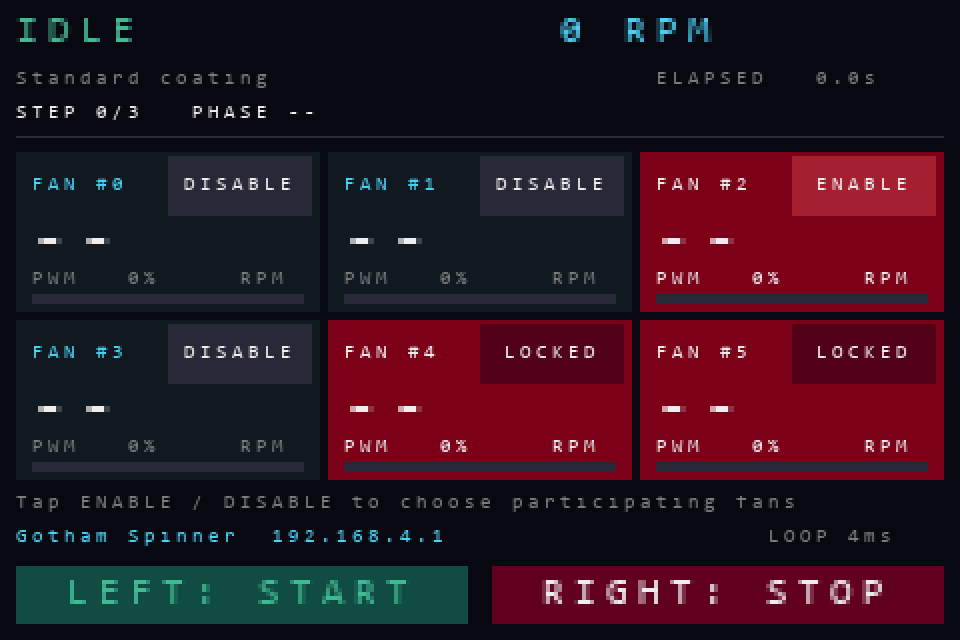
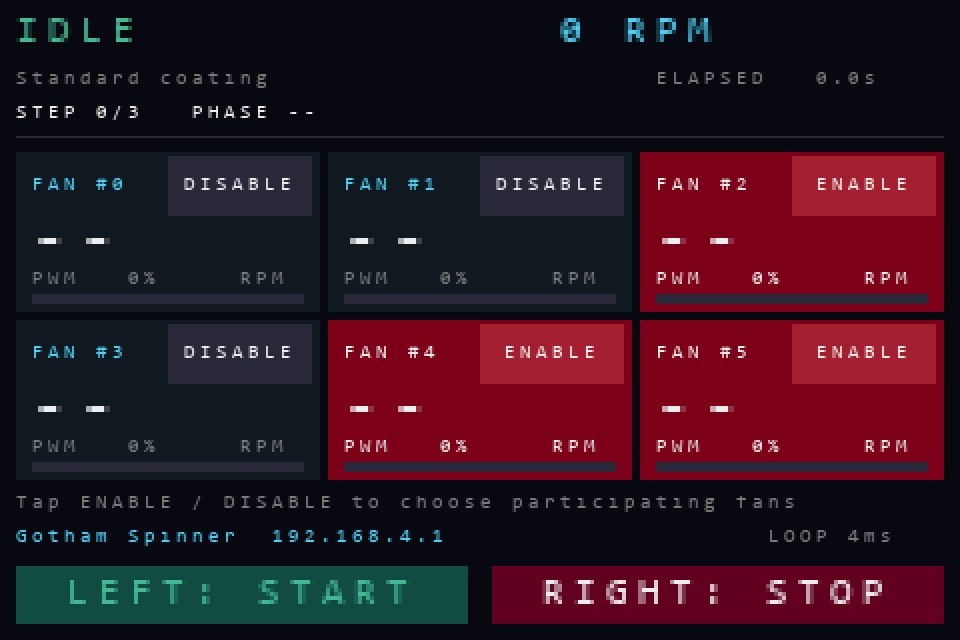
Unlock fans four and five after GPIO isolation

Changed region(s): [[0.8125, 0.5, 1.0, 0.625], [0.5, 0.5, 0.6562, 0.625]]

diff --git a/tests/test_rig.py b/tests/test_rig.py
@@ -59,9 +59,9 @@ class RigTests(unittest.TestCase):
             self.module.FanRig()
         self.assertEqual(self.attempted, [])
 
-    def test_shipped_configuration_constructs_four_unmodified_kit_channels(self):
+    def test_shipped_configuration_unlocks_auxiliary_channels_without_selecting_them(self):
         self.assertEqual(self.config.ENABLED_CHANNELS, (0, 1, 2, 3))
-        self.assertFalse(self.config.AUX_LINKS_DISCONNECTED)
+        self.assertTrue(self.config.AUX_LINKS_DISCONNECTED)
         rig = self.module.FanRig()
         self.assertEqual(list(rig.fans), [0, 1, 2, 3])
         self.assertEqual([(fan.pwm, fan.tach) for fan in self.constructed],
@@ -80,12 +80,14 @@ class RigTests(unittest.TestCase):
                 self.assert_rejected_before_construction()
 
     def test_channels_four_and_five_require_auxiliary_links_disconnected(self):
+        self.config.AUX_LINKS_DISCONNECTED = False
         for ids in ((0, 4), (0, 5), (0, 4, 5)):
             with self.subTest(ids=ids):
                 self.config.ENABLED_CHANNELS = ids
                 self.assert_rejected_before_construction()
 
     def test_first_four_channels_do_not_require_auxiliary_link_changes(self):
+        self.config.AUX_LINKS_DISCONNECTED = False
         self.config.ENABLED_CHANNELS = (0, 1, 2, 3)
         rig = self.module.FanRig()
         self.assertEqual(list(rig.fans), [0, 1, 2, 3])

diff --git a/device/config.py b/device/config.py
@@ -17,14 +17,15 @@ JOYSTICK_X_SIGN = 1
 JOYSTICK_Y_SIGN = -1
 
 # The first four fan pairs are available without modifying the kit.
-# Channels #4/#5 require disconnecting the kit's RGB, buzzer and D1/D2 links.
+# The builder confirmed RGB/buzzer/D1/D2 isolation for channels #4/#5.
 # Keep all TFT/touch/joystick/button connections intact.
 FUTURE_CHANNELS = ((18, 19), (20, 21), (22, 28), (0, 1), (12, 16), (13, 17))
 # One PIO SM and one DMA channel per enabled fan; leave PIO1 for wireless.
 TACH_STATE_MACHINES = (0, 1, 2, 3, 8, 9)
 # Initial selection only; touchscreen choices persist separately in fans.json.
 ENABLED_CHANNELS = (0, 1, 2, 3)
-# Set True only after physically disconnecting RGB/buzzer/D1/D2 links.
-AUX_LINKS_DISCONNECTED = False
+# Hardware isolation confirmed by the builder on 2026-09-08.
+# Use False on an unmodified kit; True unlocks touch selection for #4/#5.
+AUX_LINKS_DISCONNECTED = True
 WIFI_SSID = 'Gotham Spinner'
 WIFI_IP = '192.168.4.1'

diff --git a/tests/render_dashboard_preview.py b/tests/render_dashboard_preview.py
@@ -45,7 +45,7 @@ if __name__ == '__main__':
         'step': 0, 'step_count': 3, 'phase_remaining_s': None,
         'message': 'Tap ENABLE / DISABLE to choose participating fans', 'ssid': 'Gotham Spinner',
         'ip': '192.168.4.1', 'loop_lag_ms': 4,
-        'fans': [{'enabled': i in (0, 1, 3), 'available': i < 4, 'rpm': 0,
+        'fans': [{'enabled': i in (0, 1, 3), 'available': True, 'rpm': 0,
                   'valid': False, 'duty': 0, 'error': 0, 'fault': None}
                  for i in range(6)],
     })

diff --git a/PINOUT.md b/PINOUT.md
@@ -1,8 +1,8 @@
 # Pico 2 W / EP-0172 header map
 
-View the Pico from above with its USB socket at the top. The middle columns are physical header pin numbers; GP numbers are the names used in MicroPython. This map assumes the kit's original component links remain fitted.
+View the Pico from above with its USB socket at the top. The middle columns are physical header pin numbers; GP numbers are the names used in MicroPython. This map reflects the project's modified kit, with RGB, buzzer, D1 and D2 GPIO branches isolated as confirmed by the builder on 2026-09-08.
 
-**FAN #n** marks the six-channel firmware allocation; it does not confirm external wiring. **Fans #0–#3 are available and enabled by default; touchscreen selections persist across reboots. Fans #4/#5 are locked.** A **†** marks a fan signal that requires disconnecting the kit peripheral shown in parentheses before use. Kit connections remain occupied even when the application does not use that feature.
+**FAN #n** marks the six-channel firmware allocation; it does not confirm external wiring. **All six fans are available. Fans #0–#3 are enabled by default; #4/#5 can be enabled by touch.** Selections persist across reboots. A **†** marks a reclaimed GPIO; the former kit connection appears in parentheses. On an unmodified kit, these four connections must be isolated before use.
 
 | Left header | Pin | Pin | Right header |
 | --- | ---: | :--- | --- |
@@ -21,11 +21,11 @@ View the Pico from above with its USB socket at the top. The middle columns are 
 | GND | 13 | 28 | GND |
 | GP10 — touch reset* | 14 | 27 | **GP21 — FAN #1 tach** |
 | GP11 — touch interrupt* | 15 | 26 | **GP20 — FAN #1 PWM** |
-| **GP12 — FAN #4 PWM†** (RGB LED) | 16 | 25 | **GP19 — FAN #0 tach** |
-| **GP13 — FAN #5 PWM†** (buzzer) | 17 | 24 | **GP18 — FAN #0 PWM** |
+| **GP12 — FAN #4 PWM†** (RGB isolated) | 16 | 25 | **GP19 — FAN #0 tach** |
+| **GP13 — FAN #5 PWM†** (buzzer isolated) | 17 | 24 | **GP18 — FAN #0 PWM** |
 | GND | 18 | 23 | GND |
-| GP14 — BTN2 (stop) | 19 | 22 | **GP17 — FAN #5 tach†** (LED D2) |
-| GP15 — BTN1 (START) | 20 | 21 | **GP16 — FAN #4 tach†** (LED D1) |
+| GP14 — BTN2 (stop) | 19 | 22 | **GP17 — FAN #5 tach†** (D2 isolated) |
+| GP15 — BTN1 (START) | 20 | 21 | **GP16 — FAN #4 tach†** (D1 isolated) |
 
 Header locations follow the [Raspberry Pi Pico 2 W datasheet, figures 2 and 4](https://pip.raspberrypi.com/documents/RP-008304-DS). Peripheral assignments follow the [52Pi EP-0172 documentation](https://wiki.52pi.com/index.php?title=EP-0172). *GP4, GP10 and GP11 are marked on the [manufacturer's board photograph](https://wiki.52pi.com/images/thumb/4/4d/EP-0127-14.jpg/800px-EP-0127-14.jpg), although absent from its short software pin table.
 
@@ -37,15 +37,15 @@ Header locations follow the [Raspberry Pi Pico 2 W datasheet, figures 2 and 4](h
 | **#1** | GP20 (26) | GP21 (27) | Available; enabled by default |
 | **#2** | GP22 (29) | GP28 (34) | Available; enabled by default; tach pull-up to 3.3 V only |
 | **#3** | GP0 (1) | GP1 (2) | Available; enabled by default |
-| **#4** | GP12 (16) | GP16 (21) | Locked; isolate RGB data and D1 branches first |
-| **#5** | GP13 (17) | GP17 (22) | Locked; isolate buzzer-driver input and D2 branches first |
+| **#4** | GP12 (16) | GP16 (21) | Available; initially disabled; RGB/D1 isolation confirmed |
+| **#5** | GP13 (17) | GP17 (22) | Available; initially disabled; buzzer/D2 isolation confirmed |
 
-The eight GPIOs without kit peripheral connections are **GP0, GP1, GP18, GP19, GP20, GP21, GP22 and GP28**. They are assigned to four available PWM/tach pairs; disabling a fan through touch holds its PWM LOW and does not free its GPIOs for another purpose. There is no fifth free pair while keeping all original kit connections. The left-side pair, GP0/GP1, serves fan #3.
+The unmodified kit provides **GP0, GP1, GP18, GP19, GP20, GP21, GP22 and GP28** for four PWM/tach pairs. This project's modifications reclaim four additional GPIOs for six pairs. Disabling a fan through touch holds its PWM LOW and does not free its GPIOs for another purpose. The left-side pair, GP0/GP1, serves fan #3.
 
-To reach six independent pairs while keeping the display, touch, buttons and joystick, the existing plan reclaims **GP12, GP13, GP16 and GP17** by disconnecting the kit's RGB LED, buzzer and indicator LED links. This requires physical changes to the kit; disabling them in software does not disconnect them. No such modifications have been made.
+**GP12, GP13, GP16 and GP17** are now available after the builder's confirmed isolation of the RGB LED, buzzer and indicator LED branches. The display, touch, buttons and joystick keep their original assignments. `AUX_LINKS_DISCONNECTED = True` unlocks fans #4/#5 while preserving saved selections.
 
 See **[Freeing the kit pins for six fans](BOARD_MODIFICATIONS.md)** for component locations, how to identify the correct series connections, removal and continuity checks, and the final wiring/configuration steps. Exact resistor references and values must be confirmed on the actual board.
 
 GP28 supports digital input/output as well as ADC2. In this project's direct fan interface, reserve it for **tach with a 3.3 V pull-up**, not the fan's potentially higher-voltage PWM input. Power, reset and ground pins are not spare GPIOs. GP23–25 and GP29 are not exposed on these headers; they serve the Pico 2 W's internal wireless circuitry.
 
-Current fan allocation was checked against `device/config.py` on 2026-09-08. Enabling fans #0–#3 keeps the original six-channel pin allocation unchanged.
+Current fan allocation was checked against `device/config.py` on 2026-09-08. Unlocking fans #4/#5 keeps the original six-channel pin allocation unchanged.

diff --git a/README.md b/README.md
@@ -6,7 +6,7 @@
 
 MicroPython controller for **Raspberry Pi Pico 2 W**, six **ARCTIC P12 Pro** fans, and the **52Pi/GeeekPi Pico Breadboard Kit Plus (EP-0172)**. Each enabled fan independently adjusts PWM power to follow one shared RPM target. A TFT dashboard displays all six channels; a local Wi-Fi page edits recipes.
 
-**Fans #0–#3 are available and selected by default.** Use each tile's touch button to choose which fans participate. Fans #4/#5 remain locked until their occupied GPIOs are physically isolated. Connect every selected fan before pressing START: missing tach on a selected channel faults the whole recipe. Physical spin testing so far covers fan #0; enabling the other channels does not establish that they are wired or tested.
+**All six fans are available; #0–#3 are selected by default.** The builder has confirmed the GPIO modifications for #4/#5, so their touch buttons now offer ENABLE. Use each tile's button to choose which fans participate; saved selections are preserved. Connect every selected fan before pressing START: missing tach on a selected channel faults the whole recipe. Physical spin testing so far covers fan #0; enabling the other channels does not establish that they are wired or tested.
 
 **Building all six channels? [Board modification guide: free the four auxiliary GPIOs](BOARD_MODIFICATIONS.md)** — component locations, connection tracing, desoldering, continuity checks, wiring, and firmware setup.
 
@@ -22,7 +22,7 @@ The joystick belongs to the earlier manual bench UI and does not change power in
 
 The TFT and browser show the run state, target, step, phase countdown, elapsed time, and each fan's RPM and requested power. Disabled channels have a **red background**, zero requested power, and no participation in control, settling, dwell, or tach-loss checks. **`--` means no valid recent tach measurement**, rather than a measured zero shaft speed. The phase countdown shows ramp time, remaining reach timeout, or unconsumed dwell time according to the state.
 
-![TFT dashboard with per-fan buttons, red disabled cards, and locked GPIO channels](artifacts/dashboard-preview.png)
+![TFT dashboard with all six fan buttons available and red disabled cards](artifacts/dashboard-preview.png)
 
 ### Choose participating fans
 
@@ -140,16 +140,16 @@ See [the complete header map](PINOUT.md), with the Pico's USB connector at the t
 | 1 | GP20 (pin 26) | GP21 (pin 27) | None; available, selected by default |
 | 2 | GP22 (pin 29) | GP28 (pin 34) | None; available, selected by default; tach stays at 3.3 V |
 | 3 | GP0 (pin 1) | GP1 (pin 2) | None; available, selected by default |
-| 4 | GP12 (pin 16) | GP16 (pin 21) | Disconnect RGB and D1 links |
-| 5 | GP13 (pin 17) | GP17 (pin 22) | Disconnect beeper and D2 links |
+| 4 | GP12 (pin 16) | GP16 (pin 21) | RGB and D1 isolation confirmed; available, initially disabled |
+| 5 | GP13 (pin 17) | GP17 (pin 22) | Beeper and D2 isolation confirmed; available, initially disabled |
 
 Preserve GP2–11 for display/touch, GP14/15 for buttons, and GP26/27 for the kit joystick. GP4 is physically connected to TFT MISO even though the display driver does not read it.
 
-`device/config.py` defaults to **`ENABLED_CHANNELS = (0, 1, 2, 3)`** with **`AUX_LINKS_DISCONNECTED = False`**. Saved touch selections take precedence over that initial default. The unmodified kit provides four independent pairs. Both channels #4/#5 require physical link disconnection before setting the flag to `True`; that modification has not been made. Every selected fan follows the shared RPM target with its own PWM correction. For a one-fan bench setup, leave #0 enabled and tap DISABLE on #1–#3 before starting a recipe.
+`device/config.py` defaults to **`ENABLED_CHANNELS = (0, 1, 2, 3)`** with **`AUX_LINKS_DISCONNECTED = True`** following the builder's modification confirmation on 2026-09-08. Saved touch selections take precedence over the initial default. Unlocking #4/#5 does not select them automatically; use their ENABLE buttons. Every selected fan follows the shared RPM target with its own PWM correction. For a one-fan bench setup, leave only #0 enabled before starting a recipe.
 
 ### Preparing the kit for fans #4 and #5
 
-Follow the **[complete board modification instructions](BOARD_MODIFICATIONS.md)** before enabling these channels. Isolate the GP12 RGB-data branch, GP13 buzzer-driver input, GP16 D1 branch, and GP17 D2 branch. Preserve the display/touch resistor bank, buttons, joystick, and D3/D4 supply indicators.
+The builder has completed this modification on the project kit. For an **unmodified kit**, set `AUX_LINKS_DISCONNECTED = False` and follow the **[complete board modification instructions](BOARD_MODIFICATIONS.md)** before unlocking these channels. Isolate the GP12 RGB-data branch, GP13 buzzer-driver input, GP16 D1 branch, and GP17 D2 branch. Preserve the display/touch resistor bank, buttons, joystick, and D3/D4 supply indicators.
 
 The guide includes the manufacturer's component-location photograph and a power-off tracing and inspection procedure. Manufacturer documentation mentions removable 0Ω connections, but does not establish the exact resistor references or values for all four auxiliary branches. Identify each series connection on the actual board before desoldering; do not assume every nearby resistor is a jumper. Set the configuration flag only after the physical isolation checks pass.
 

diff --git a/artifacts/validation.md b/artifacts/validation.md
@@ -73,3 +73,9 @@ Added ENABLE/DISABLE buttons to the six-card TFT. Disabled cards have a red back
 - Touch protocol, address, and reset sequencing follow the [manufacturer's Pico 2 example](https://github.com/geeekpi/pico_breadboard_kit/tree/pico2) and [Goodix driver](https://github.com/goodix/gt9xx_driver_android/blob/master/gt9xx.c). The driver expects GT911 at address `0x5D`, native 320×480 coordinates, and rotates them to the current landscape TFT. It does not rewrite the controller configuration.
 - **Deployment and physical verification are pending:** the project USB device was disconnected during this change. The identity guard stopped before opening a serial port; COM4 and COM5 were not accessed. The last deployed firmware remains the preceding four-channel version. No new motor run was initiated.
 - Prepared [the zero-power board integration check](../tools/test_fan_settings_board.py) for saved selections, worker acknowledgements, GPIO locks, and LOW output levels. Run it after reconnection/deployment, then confirm that a tap toggles the intended tile once and that the selection survives reboot.
+
+## Auxiliary GPIO modifications confirmed — 2026-09-08
+
+The builder reported completing the GPIO modifications and requested unlocking fans #4/#5. Set `AUX_LINKS_DISCONNECTED = True`; all six channels are now hardware-available to the runtime and touchscreen. The initial selection stays `(0, 1, 2, 3)`, and saved `fans.json` selections are preserved. Fans #4/#5 offer ENABLE rather than LOCKED until selected.
+
+All **219 host tests passed**, including the updated shipped-configuration expectation and explicit unmodified-kit guard tests. Updated the header map, modification status, and rendered dashboard preview. No new electrical or motor test was performed; the project Pico remains disconnected, so deployment and physical touch verification are still pending.

diff --git a/BOARD_MODIFICATIONS.md b/BOARD_MODIFICATIONS.md
@@ -1,8 +1,8 @@
 # Freeing the kit pins for six fans
 
-The unmodified **52Pi/GeeekPi Pico Breadboard Kit Plus, EP-0172** supports fans **#0–#3** with the [current allocation](README.md#six-fan-gpio-allocation). Fans **#4 and #5** need four GPIOs currently connected to kit peripherals. This guide covers identifying and disconnecting those connections, checking the work, and enabling the additional channels.
+The unmodified **52Pi/GeeekPi Pico Breadboard Kit Plus, EP-0172** supports fans **#0–#3** with the [current allocation](README.md#six-fan-gpio-allocation). Fans **#4 and #5** need four GPIOs originally connected to kit peripherals. This guide covers identifying and disconnecting those connections, checking the work, and enabling the additional channels.
 
-**Status:** this modification has not yet been performed or electrically verified on the project's board. The GPIO assignments and component locations below come from manufacturer documentation. Exact resistor reference numbers and values for these four connections remain unverified; the procedure deliberately requires tracing them on the actual board before desoldering.
+**Project status:** the builder confirmed completion on 2026-09-08, and firmware configuration now unlocks fans #4/#5 with `AUX_LINKS_DISCONNECTED = True`. Their participation is selected separately using the touchscreen. The GPIO assignments and component locations below come from manufacturer documentation. Exact removed resistor references and values have not been recorded; when modifying another board, trace its connections before desoldering.
 
 ## What to disconnect
 
